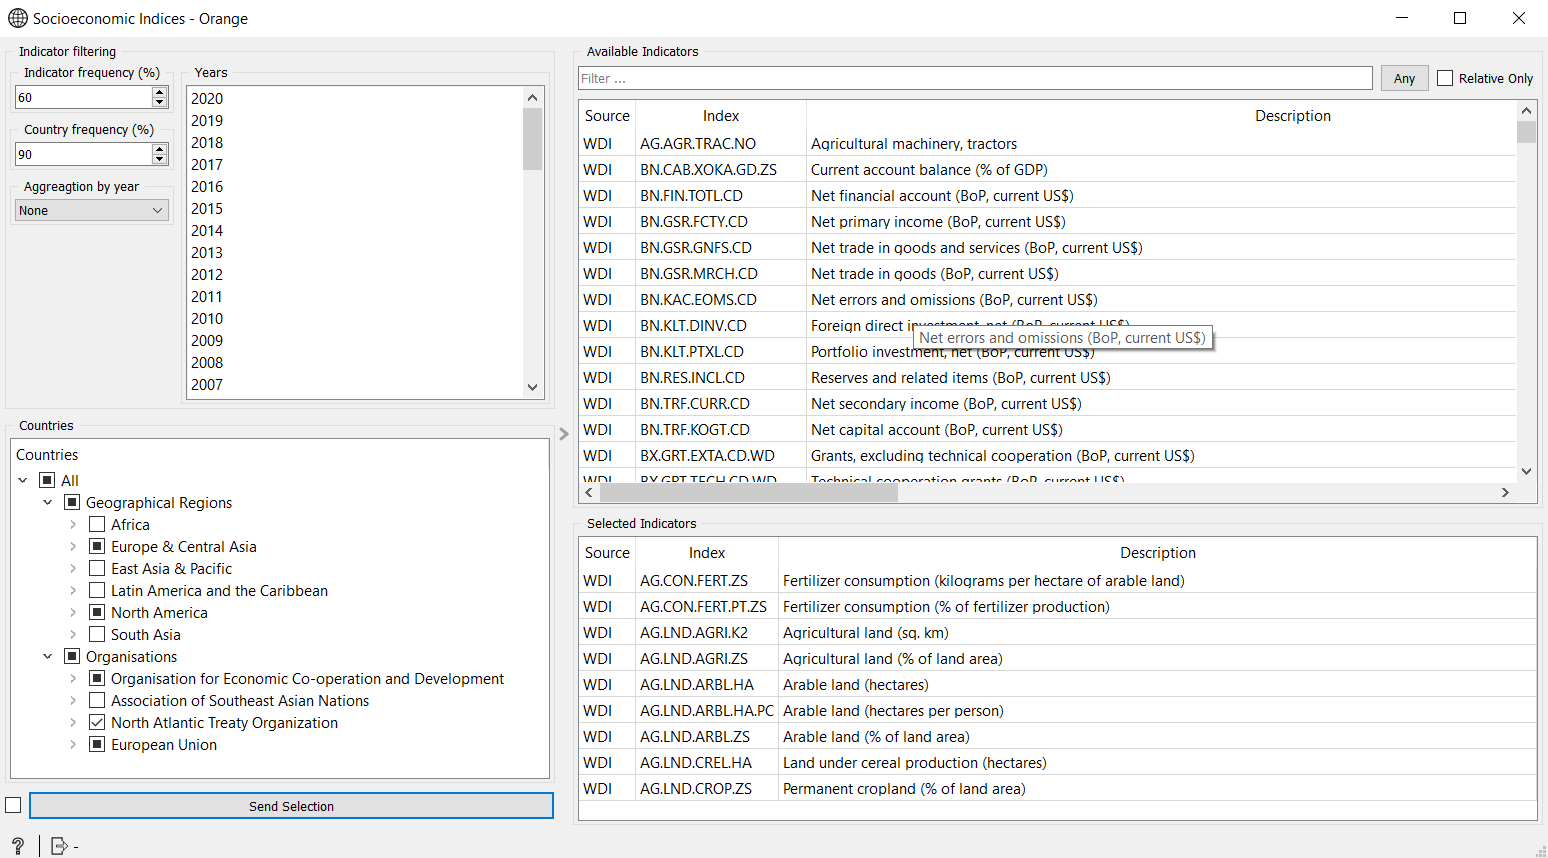
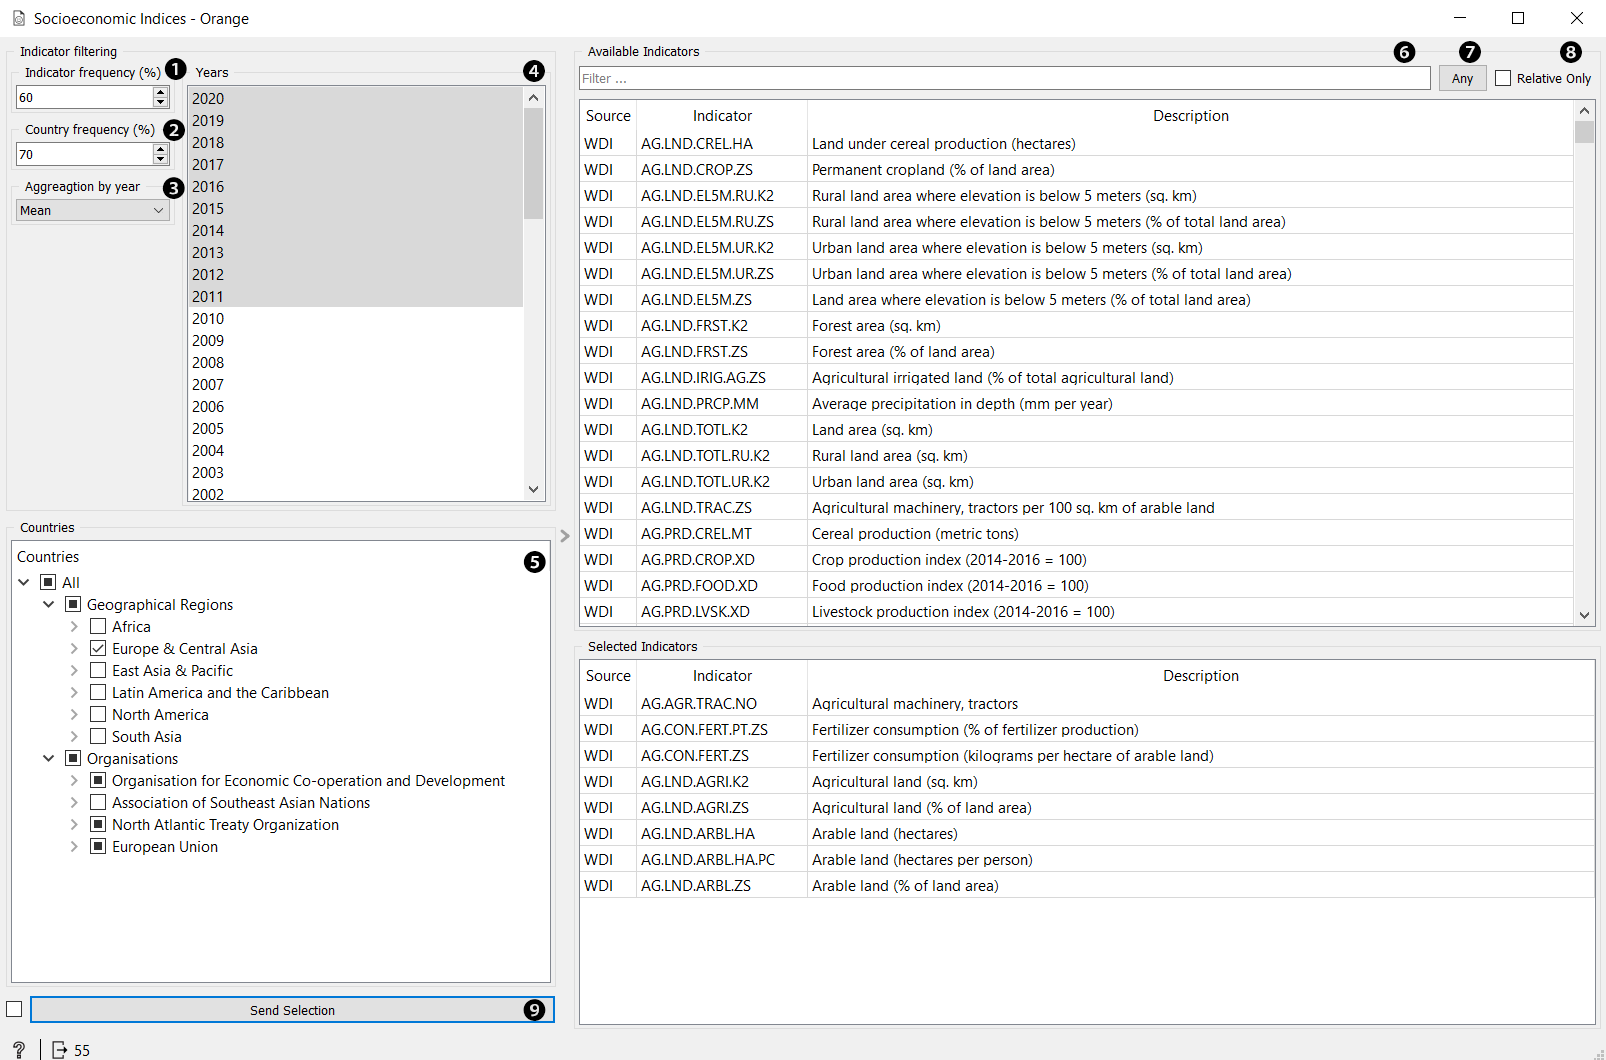
Updated documentation

Changed region(s): [[0.0, 0.0, 1.0, 1.0]]

diff --git a/doc/widgets/socioeconomicindices.md b/doc/widgets/socioeconomicindices.md
@@ -1,14 +1,27 @@
 Socioeconomic Indices
-===========
+=====================
 
-Download socioeconomic data from remote Mongo database.
+Downloads socioeconomic data from remote Mongo database.
 
 **Outputs**:
 
-- Data: Dataset containing selected socioeconomic data.
+- Data: Dataset containing filtered selected socioeconomic data.
 
 The **Socioeconomic Indices** widget enables downloading of social and economic indicators from
 a remote mongo database filled from various economic databases such as [WHR](https://worldhappiness.report/), 
 [WDI](https://data.worldbank.org/), [OECD](https://stats.oecd.org/).
 
 ![Preview of widget](./images/socioeconomic-indices.png)
+
+
+1. Select the percentage of non-missing values to keep indicator.
+2. Select the percentage of non-missing values to keep country.
+3. Select method for aggregation of indicator data by year.
+4. Select list of years.
+5. Check countries in regions or organizations.
+6. Search available socioeconomic indicators.
+7. Choose if search must include all or any keyword. Keywords are separated by spaces.
+8. Check to filter only relative indicators.
+9. Retrieve data from remote database based on current selection.
+
+You can drag and drop indicators between **Available Indicator** table and **Selected Indicators** table.
